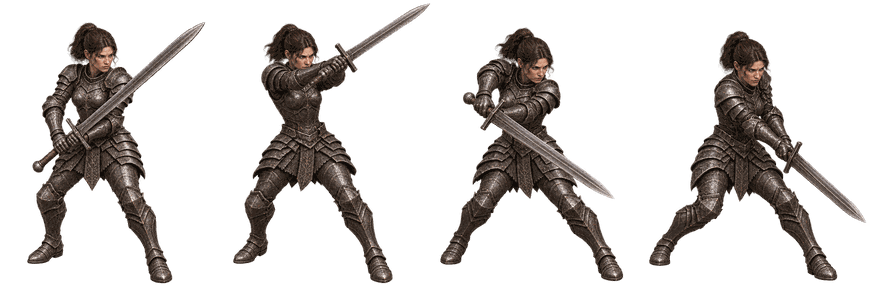
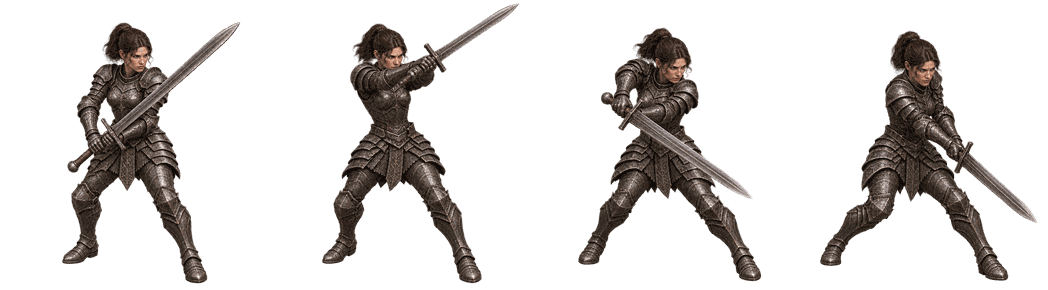
Keep every attack pose inside its own frame (#49)
The six attack sheets held four poses in one row, but the swords and feet
crossed the 217.5 px cell boundaries, so cutting the sheet in four dragged a
sliver of the neighbouring pose into every frame - the fragment that trailed
beside the hero while attacking.

- public/assets/*_attack.png (6 files): each pose was isolated as an alpha
  connected component (poses that touch were split with a geodesic watershed),
  measured by its torso middle and pasted into its own cell of a uniform width
  (262-286 px), with 4 px of clearance on both sides. The sheet height stays
  290 px, so heroScale.ts keeps its per-sheet body heights. The torso anchor
  also lines the poses up with each other, which removes the sideways jump the
  old even cut left between frames. Files got smaller (38-54 KB vs 44-59 KB).
- render.ts: the attack loader divides a sheet into four only when it is about
  four cells wide (width/height > 2.2); a single-pose image is used as one
  frame instead of being sliced. The three single-pose attack textures in
  `paths` were loaded but never drawn, so they left the load list, and the
  sheets carry a `?v=3` cache buster.
- entities.ts: the ground shadow follows the drawn body instead of the frame
  width, so it no longer grows with the wider attack cells.
- tests: every sheet must have four equal cells with no alpha on a cell
  boundary (a small PNG decoder reads the palette alpha), a single-pose image
[…]

Changed region(s): [[0.4966, 0.0931, 1.0, 0.9931], [0.2483, 0.0, 0.4966, 0.9931], [0.031, 0.0621, 0.2483, 0.9621]]

diff --git a/src/game/render.ts b/src/game/render.ts
@@ -17,7 +17,6 @@ const paths = {
   femaleBaseOldHelm: '/assets/warrior_female_base_oldhelm.png', femaleSwordOldHelm: '/assets/warrior_female_sword_oldhelm.png',
   maleBaseHelm: '/assets/warrior_male_base_helm.png', maleSwordHelm: '/assets/warrior_male_sword_helm.png',
   maleSword: '/assets/warrior_male_sword.png', femaleSword: '/assets/warrior_female_sword.png',
-  maleAttack: '/assets/warrior_male_attack.png', femaleAttack: '/assets/warrior_female_attack.png', armoredAttack: '/assets/warrior_armored_attack.png?v=2',
   skeleton: '/assets/skeleton_warrior.png', boss: '/assets/skeleton_boss.png',
   fxDragonHead: '/assets/fx_dragon_head.png', fxDragonBody: '/assets/fx_dragon_body.png', fxSlam: '/assets/fx_wild_stamp.png',
   fxRage: '/assets/fx_blood_rage.png', fxSlash: '/assets/fx_slash_arc.png',
@@ -30,13 +29,16 @@ const animationPaths = {
   armoredAttack: Array.from({ length: 4 }, (_, i) => `/assets/warrior_armored_attack_${i + 1}.png?v=2`),
   armoredNoHelmAttack: Array.from({ length: 4 }, (_, i) => `/assets/warrior_armored_nohelm_attack_${i + 1}.png?v=2`)
 };
+// One row of four poses, each in its own cell of equal width. The cells are wider than
+// 870/4 so no sword tip or foot reaches into the neighbouring frame. The sheet height
+// stays 290 px, which is what heroScale.ts measures a body height against.
 const attackSheets = {
-  femaleArmoredNoHelmAttack: '/assets/warrior_female_armored_attack.png',
-  femaleArmoredHelmAttack: '/assets/warrior_female_armored_helm_attack.png',
-  femaleHelmAttack: '/assets/warrior_female_helm_attack.png?v=2',
-  femaleArmoredOldHelmAttack: '/assets/warrior_female_armored_oldhelm_attack.png',
-  femaleOldHelmAttack: '/assets/warrior_female_oldhelm_attack.png?v=2',
-  maleHelmAttack: '/assets/warrior_male_helm_attack.png?v=2'
+  femaleArmoredNoHelmAttack: '/assets/warrior_female_armored_attack.png?v=3',
+  femaleArmoredHelmAttack: '/assets/warrior_female_armored_helm_attack.png?v=3',
+  femaleHelmAttack: '/assets/warrior_female_helm_attack.png?v=3',
+  femaleArmoredOldHelmAttack: '/assets/warrior_female_armored_oldhelm_attack.png?v=3',
+  femaleOldHelmAttack: '/assets/warrior_female_oldhelm_attack.png?v=3',
+  maleHelmAttack: '/assets/warrior_male_helm_attack.png?v=3'
 } as const;
 const walkSheets = {
   maleBaseWalk: '/assets/walk8_male_base.png', femaleBaseWalk: '/assets/walk8_female_base.png',
@@ -120,8 +122,13 @@ export class GameView {
     const attacks = await Promise.all((Object.keys(attackSheets) as (keyof typeof attackSheets)[]).map(async key => [key, await loadTexture(attackSheets[key])] as const));
     for (const [key, sheet] of attacks) {
       sheet.source.scaleMode = 'linear';
+      // Four poses in one row (the sheet is about four cells wide) versus a single pose
+      // drawn for one character: a single image cut into four slices left vertical
+      // slivers of the character beside itself, so only wide sheets are divided.
+      const poses = sheet.source.width / sheet.source.height > 2.2 ? 4 : 1;
       this.animations[key] = Array.from({ length: 4 }, (_, index) => {
-        const left = Math.round(index * sheet.source.width / 4), right = Math.round((index + 1) * sheet.source.width / 4);
+        const column = poses === 1 ? 0 : index;
+        const left = Math.round(column * sheet.source.width / poses), right = Math.round((column + 1) * sheet.source.width / poses);
         return new Texture({ source: sheet.source, frame: new Rectangle(left, 0, right - left, sheet.source.height) });
       });
     }

diff --git a/src/game/render/entities.ts b/src/game/render/entities.ts
@@ -3,7 +3,7 @@ import type { World } from '../world';
 import { enemyFacing } from '../facing';
 import { heroAppearance } from '../appearance';
 import { heroAnimationMode, heroMotion } from './heroMotion';
-import { heroScale } from './heroScale';
+import { heroScale, heroBodyHeight } from './heroScale';
 import type { GameView } from '../render';
 
 // The hero sprite sheet already carries the equipped body (bare/armored × helmet) and sword.
@@ -60,7 +60,10 @@ export function drawHero(this: GameView, world: World, x: number, y: number, tim
     this.heroLayer.position.set(x + lungeX + (player.hit > 0 ? Math.sin(time * 55) * 2 : 0), y + bob + lungeY);
     this.heroLayer.rotation = motion.rotation;
     this.hero.tint = player.hit > 0 ? 0xffd4cf : 0xffffff;
-    const shadowRadius = Math.max(20, texture.width * scale * .45);
+    // The ground shadow follows the drawn body, not the frame: an attack cell is wider
+    // than the hero only to keep the sword inside its own frame, and a frame-width
+    // shadow grew 25 % whenever the hero swung.
+    const shadowRadius = Math.max(20, heroBodyHeight(art, texture.height) * scale * .37);
     this.ground.ellipse(x - face * 4, y - 3, shadowRadius, 8).fill({ color: 0x000000, alpha: .5 });
     if (player.berserk > 0) {
       this.glow.circle(x, y - 25, 35).fill({ color: 0xb32d28, alpha: .12 });

diff --git a/docs/WORKLOG_songduckjin.md b/docs/WORKLOG_songduckjin.md
@@ -1,3 +1,9 @@
+## 2026-11-18 · 작업 127 · songduckjin
+- 공격 시트 6장을 포즈 단위로 분리(서로 닿은 포즈는 지오데식 분할)해 262~286px 동일 폭 칸으로 다시 패킹했다. 칸 폭을 포즈마다 필요한 만큼만 넓혀 칼끝·발끝이 옆 칸을 넘지 않고, 몸통 중심을 칸 가운데에 맞춰 프레임 사이 좌우 흔들림도 줄었다. 시트 높이는 290px 그대로다.
+- `src/game/render.ts`: 공격 시트를 종횡비 2.2 초과(4포즈 한 줄)일 때만 4등분하고, 쓰이지 않던 1포즈 단독 공격 텍스처 3장을 로딩 목록에서 뺐다. 이미지 교체에 맞춰 공격 시트 경로에 `?v=3` 캐시 버스터를 붙였다.
+- `src/game/render/entities.ts`: 그림자를 프레임 폭이 아니라 그려진 몸 높이 기준으로 바꿔, 넓어진 칸 때문에 공격할 때 그림자가 커지지 않게 했다.
+- 테스트: 시트별 4칸 균등 폭과 경계 알파 0을 확인하는 검사(PNG 알파 디코더 포함), 기본 공격은 잔상을 남기지 않는지 확인하는 검사를 추가했다. `npx tsc --noEmit`, 255개 테스트, `npm run build` 통과.
+
 ## 2026-11-17 · 작업 126 · songduckjin
 - 자동 추격 중 이동 벡터가 있는 동안 기본 공격·피해 스킬의 발동을 막고, 대검 휘두르기 피해를 궤적이 나타나기 시작하는 0.12초 뒤에 적용했다. 정지 후 기본 공격과 스킬 타격을 회귀 테스트로 확인했다.
 - `pnpm run check`, 219개 테스트, `pnpm run build`, `git diff --check` 통과. PR #38 병합 `62bfd7a7984eca831ed0268ebf5328f1776b6811`; Cloudflare Production HTTP 200, `index-hRFmeS2r.js`에서 이동 가드와 `nextHit:.12` 확인. 화면 실기는 미확인.

diff --git a/docs/TASK_songduckjin.md b/docs/TASK_songduckjin.md
@@ -6,6 +6,14 @@
 
 ## 진행 중 작업
 
+### [x] [작업 127] 공격 시트 옆 칸 잔상 제거
+- **담당자**: `songduckjin`
+- **브랜치**: `fix/attack-sheet-slicing`
+- **목표**: 공격 모션에서 옆 프레임의 칼끝·발끝 조각이 캐릭터 옆에 남지 않게 한다. 4프레임 공격 시트는 포즈마다 서로 침범하지 않는 같은 폭의 칸으로 다시 패킹하고, 1포즈 단독 이미지는 4등분하지 않는다.
+- **직접 수정**: `public/assets/warrior_{female_armored,female_armored_helm,female_armored_oldhelm,female_helm,female_oldhelm,male_helm}_attack.png`, `src/game/render.ts`, `src/game/render/entities.ts`, `tests/hero-art.test.mjs`, `tests/hero-weapon-render.test.mjs`. **간접 영향**: 공격 프레임 폭(높이 290 유지), 영웅 그림자 크기, 부팅 로딩 목록.
+- **위험·충돌**: 주의(에셋). 시트 높이 290과 `heroScale.ts`의 포즈별 `heroBodyPx`는 그대로여서 캐릭터 크기는 변하지 않는다.
+- **완료 기준**: 4칸 경계 알파 픽셀 0, 프레임별 옆 칸 조각 없음, 타입 검사·테스트·빌드 통과 후 PR 병합 및 Cloudflare Production 확인.
+
 ### [x] [작업 126] 접근 중 공격 피해 시점 보정
 - **담당자**: `songduckjin`
 - **브랜치**: `codex/126-stop-attacking-while-moving`
